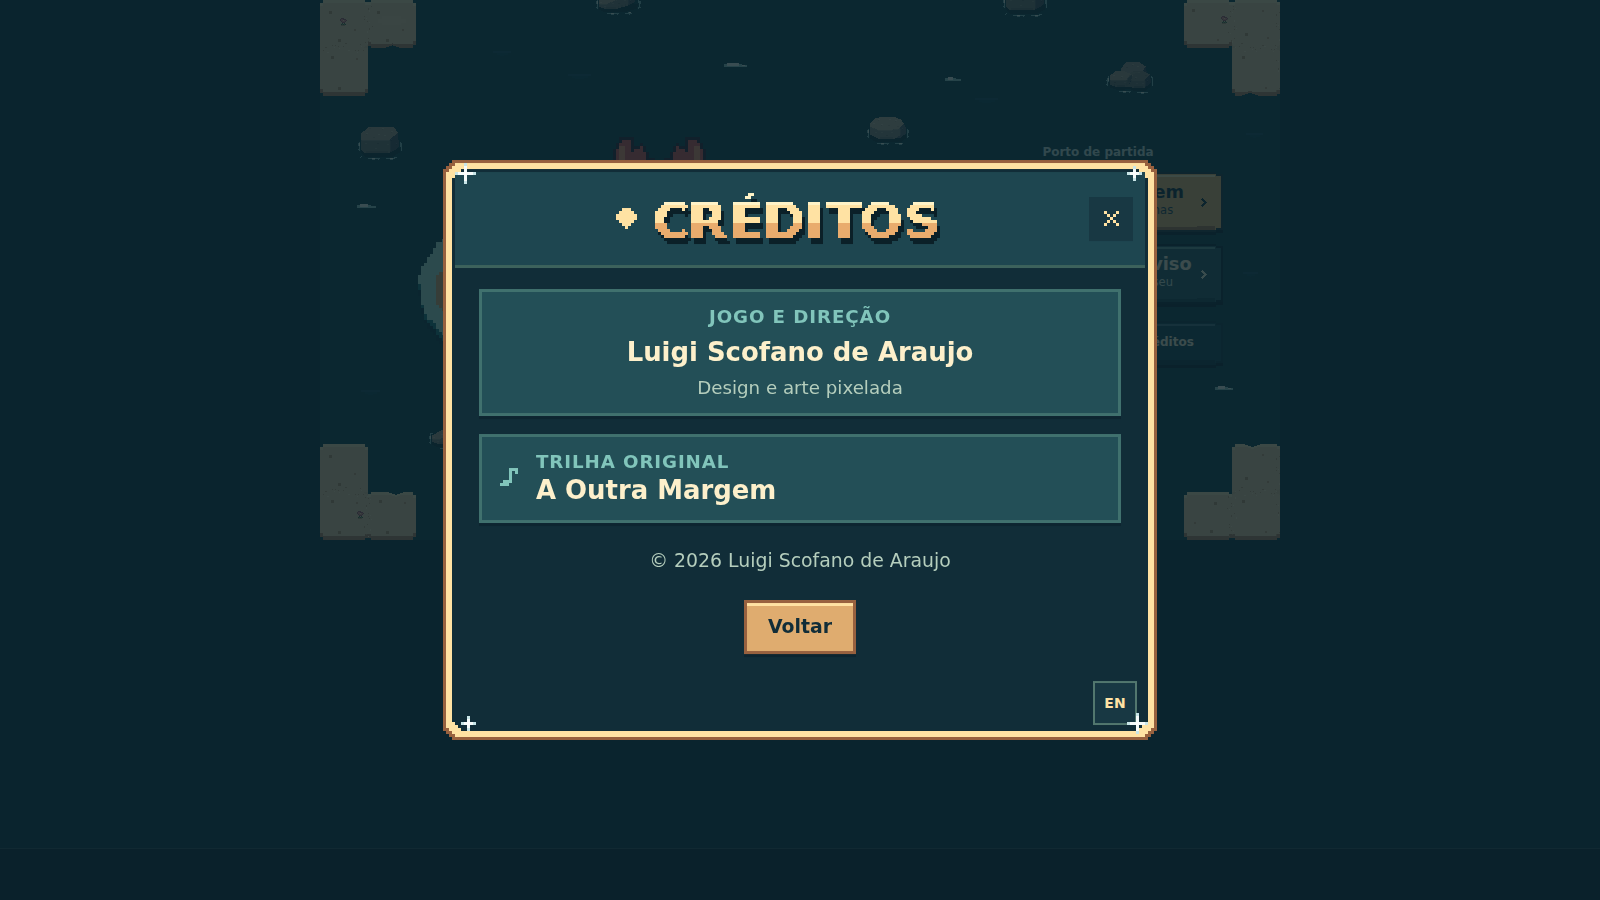
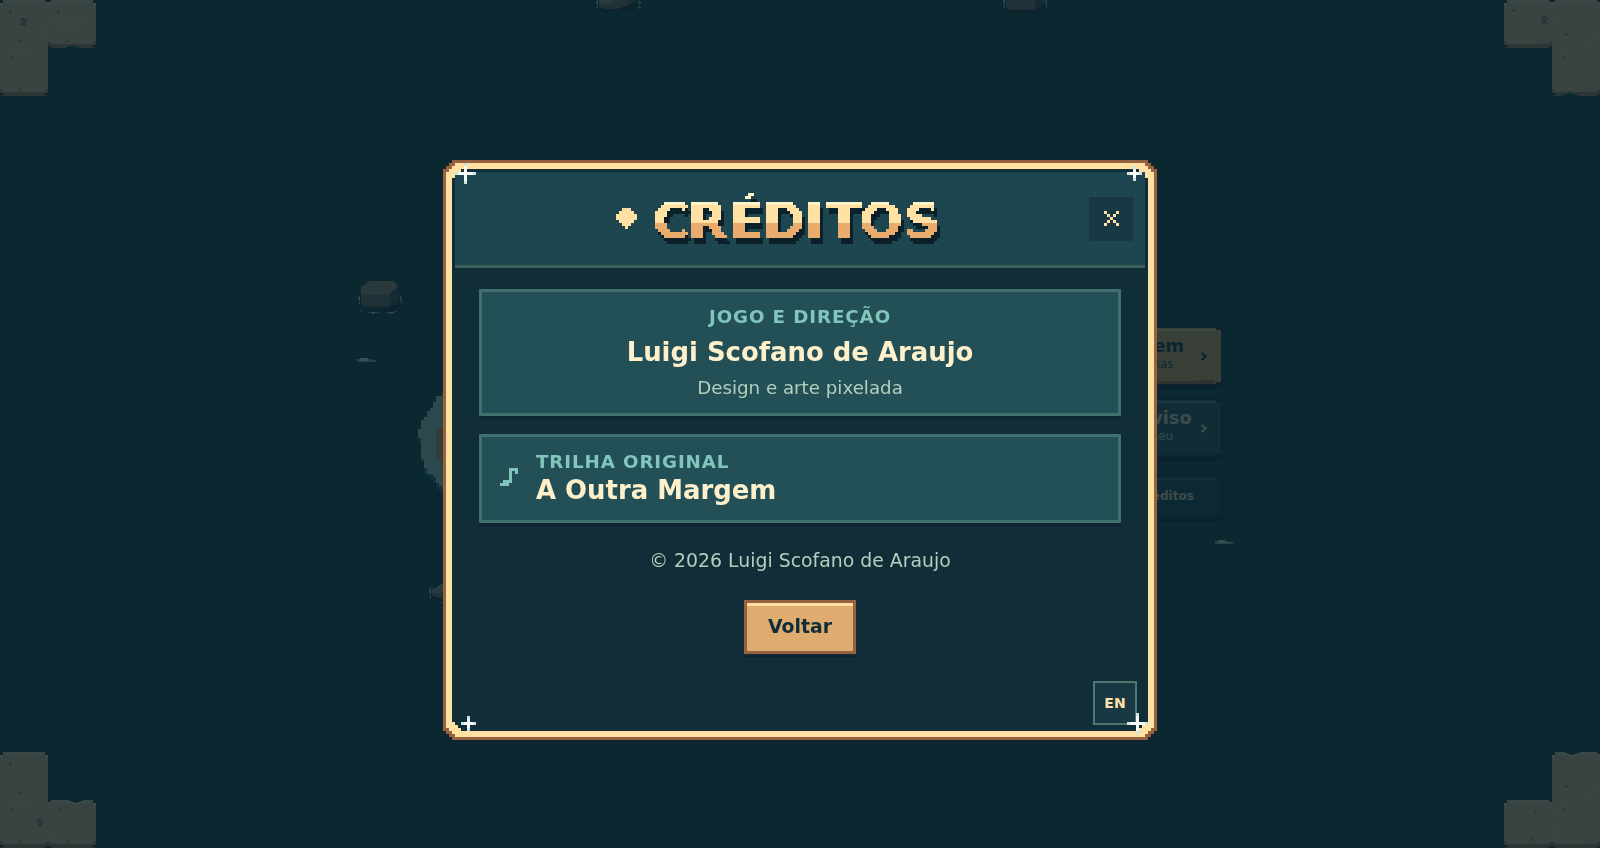
docs: reenquadrar as telas da galeria sem a margem azul

diff --git a/docs/arte/galeria/README.md b/docs/arte/galeria/README.md
@@ -17,7 +17,7 @@ Os sprites foram recortados das mesmas folhas e coordenadas usadas pelo renderiz
 
 A imagem que destaca o botão de idioma é uma composição editorial feita com as camadas localizadas, não uma captura de navegador.
 
-As **19 imagens de navegação** foram capturadas no Chromium, diretamente da edição offline com a tipografia atual e sem cursor. A janela de computador mede **1600 × 900**; as duas telas móveis usam uma janela de **390 × 844** emulada, não um celular físico. Os cartões acessíveis foram demonstrados com progresso de teste em um perfil descartável. O [filme Os oito mundos](../animacoes/README.md#os-oito-mundos) é um registro separado e mantém a apresentação da gravação original.
+As **19 imagens de navegação** foram capturadas no Chromium, diretamente da edição offline com a tipografia atual e sem cursor. A captura de computador partiu de **1600 × 900**; as duas telas móveis partiram de uma janela emulada de **390 × 844**, não de um celular físico. O enquadramento do Porto, do Arquipélago e das janelas de apoio exclui apenas o espaço externo ao que está em exibição. Os seletores preservam a paisagem e os cantos ilustrados, e a captura de idioma mantém o botão no rodapé. Os cartões acessíveis foram demonstrados com progresso de teste em um perfil descartável. O [filme Os oito mundos](../animacoes/README.md#os-oito-mundos) é um registro separado e mantém a apresentação da gravação original.
 
 - Porto de Partida: [computador](telas/porto.png) · [celular](telas/porto-celular.png).
 - Arquipélago: [página 1](telas/arquipelago-1.png) · [página 2](telas/arquipelago-2.png) · [página 3](telas/arquipelago-3.png) · [página 4](telas/arquipelago-4.png) · [celular](telas/arquipelago-celular.png).

diff --git a/docs/arte/galeria/README.en.md b/docs/arte/galeria/README.en.md
@@ -19,7 +19,7 @@ The sprites were cropped from the same sheets and coordinates used by the render
 
 The image highlighting the language button is an editorial composition using the localized artwork, not a browser screenshot.
 
-All **19 interface screenshots** were taken in Chromium directly from the offline edition with current typography and without the cursor. Desktop views are **1600 × 900**; the two mobile views use an emulated **390 × 844** viewport, not a physical phone. Available cards were demonstrated with test progress in a disposable profile. [The Eight Worlds film](../animacoes/README.en.md#the-eight-worlds) is a separate record and retains its original presentation.
+All **19 interface screenshots** were taken in Chromium directly from the offline edition with current typography and without the cursor. Desktop captures started at **1600 × 900**, while the two mobile views used an emulated **390 × 844** viewport, not a physical phone. Framing on the Harbor, Archipelago and support dialogs removes only unused space outside the scene shown. The world selectors keep their illustrated surroundings and corners, and the language screenshot retains the footer control. Available cards were demonstrated with test progress in a disposable profile. [The Eight Worlds film](../animacoes/README.en.md#the-eight-worlds) is a separate record and retains its original presentation.
 
 - Porto de Partida: [desktop](telas/porto.png) · [mobile](telas/porto-celular.png).
 - Arquipélago: [page 1](telas/arquipelago-1.png) · [page 2](telas/arquipelago-2.png) · [page 3](telas/arquipelago-3.png) · [page 4](telas/arquipelago-4.png) · [mobile](telas/arquipelago-celular.png).

diff --git a/README.md b/README.md
@@ -43,7 +43,7 @@ Com o jogo aberto, clique ou toque em **EN** no canto inferior direito para joga
 
 ## Galeria do jogo
 
-Os quadros de travessia vêm do motor e da câmera oficiais. As telas de navegação foram capturadas no HTML offline com a tipografia atual, sem cursor, em navegador de computador e em janela móvel emulada. [Origem e resolução das imagens](docs/arte/galeria/README.md).
+Os quadros de travessia vêm do motor e da câmera oficiais. As telas de navegação foram capturadas no HTML offline com a tipografia atual, sem cursor, em navegador de computador e em janela móvel emulada. O enquadramento retira as sobras da janela quando necessário, sem cortar o conteúdo da interface mostrado. [Origem e resolução das imagens](docs/arte/galeria/README.md).
 
 <details open>
 <summary><strong>Porto de Partida, Arquipélago e janelas de apoio</strong></summary>

diff --git a/README.en.md b/README.en.md
@@ -43,7 +43,7 @@ With the game open, select **EN** in the lower-right corner to play in English. 
 
 ## Game gallery
 
-Crossing frames come from the official engine and camera. The interface images are browser screenshots of the offline HTML with the current typography, without the cursor, on desktop and at an emulated mobile viewport. [Image sources and resolutions](docs/arte/galeria/README.en.md).
+Crossing frames come from the official engine and camera. The interface images are browser screenshots of the offline HTML with the current typography, without the cursor, on desktop and at an emulated mobile viewport. Where needed, framing removes unused viewport space without cutting the interface shown. [Image sources and resolutions](docs/arte/galeria/README.en.md).
 
 <details open>
 <summary><strong>Starting Harbor, Archipelago, and support panels</strong></summary>
